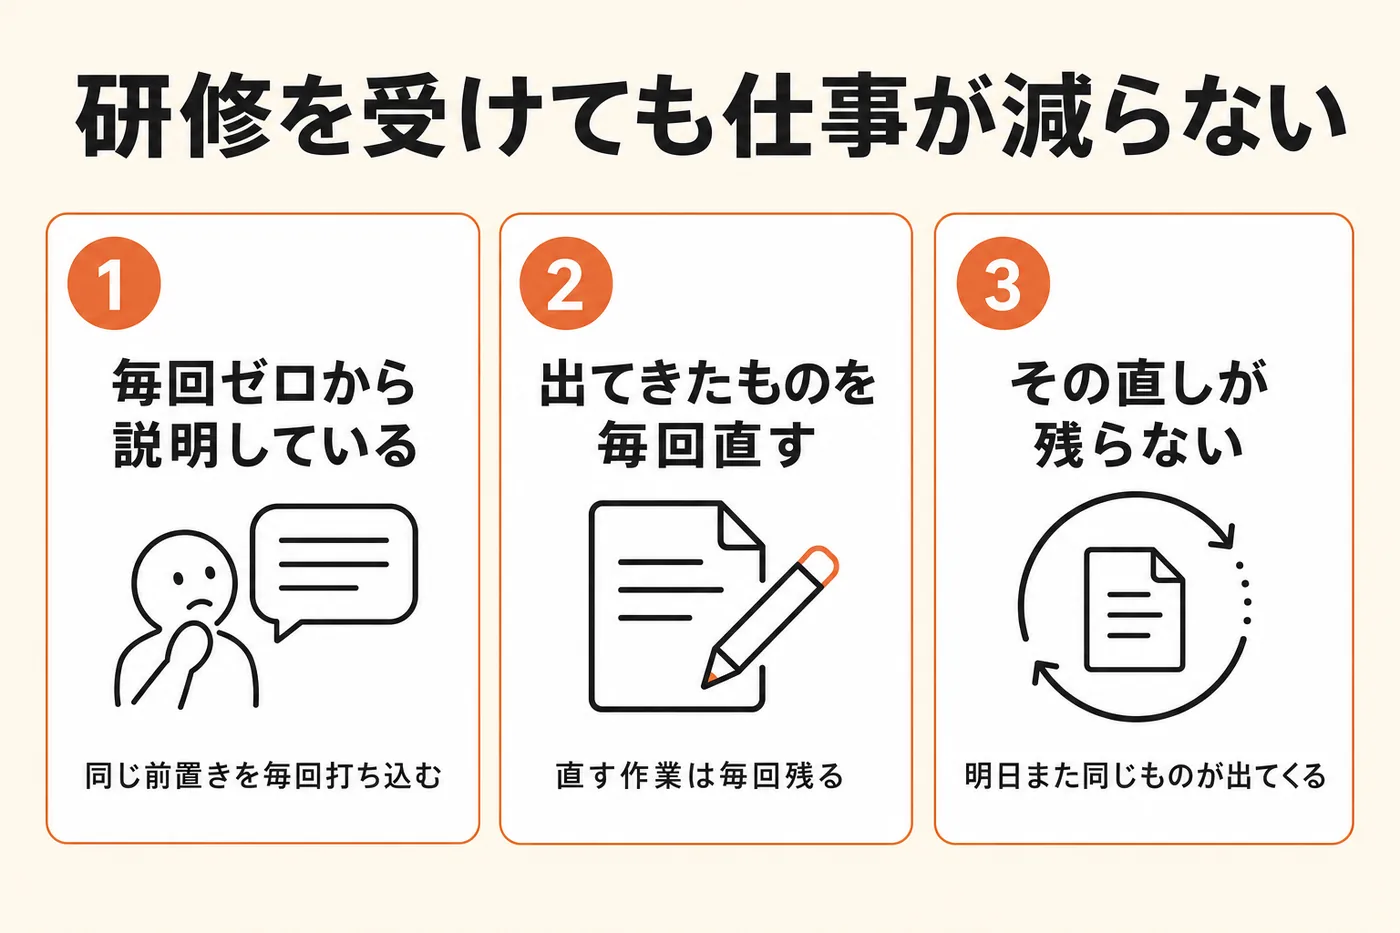
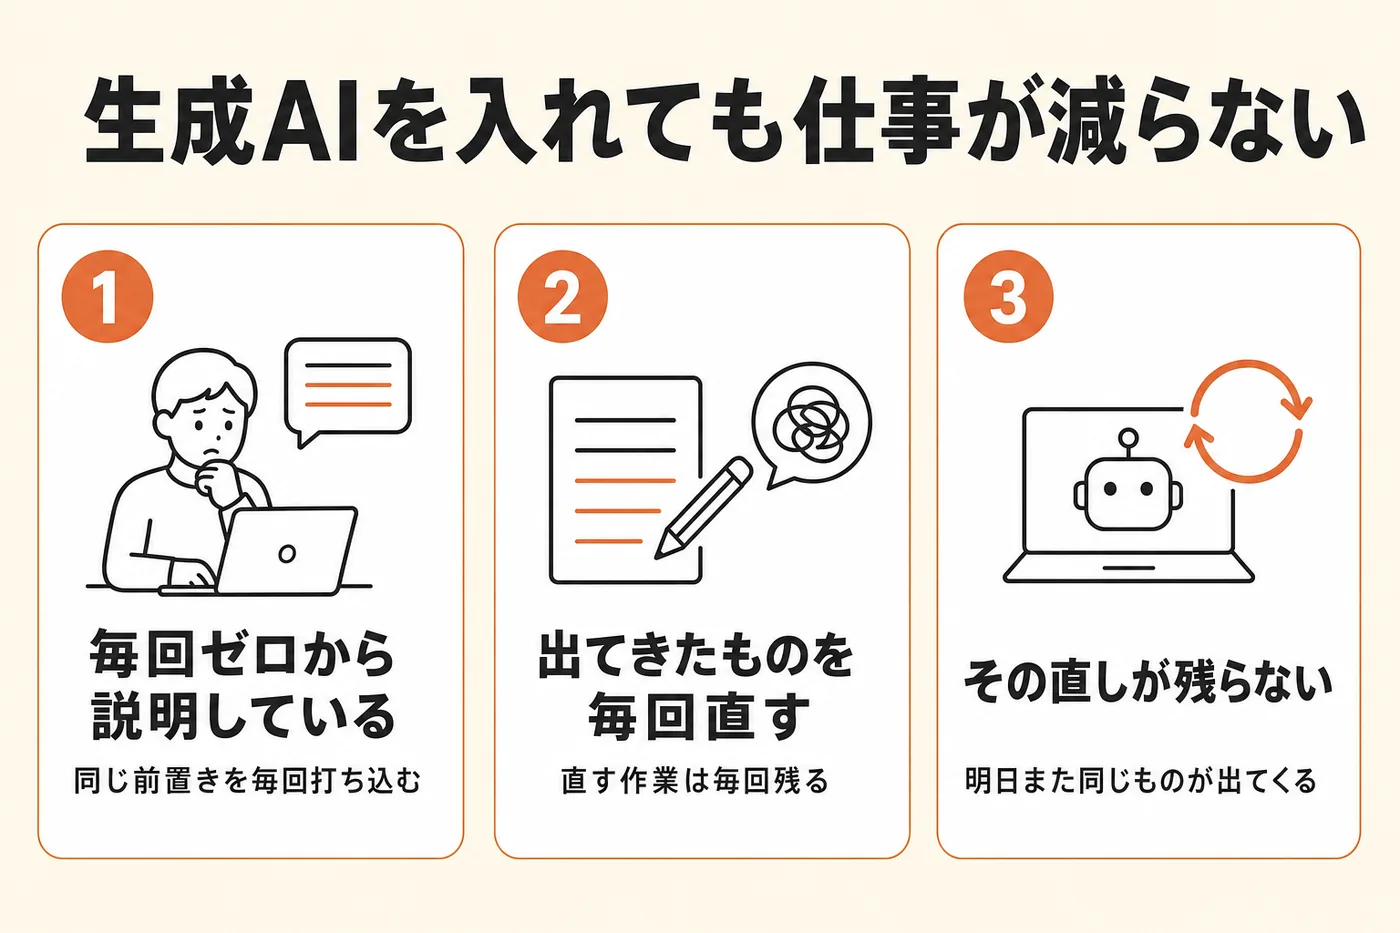
ブログ: 冒頭を「生成AIを入れても仕事が減らない」に変更し、AIエージェント解説を追加
- 研修の効果を否定しない書き出しへ: ChatGPT/Geminiを入れた時点で前進、次の段階は会社側の準備で決まる
- 「さらに効率を上げるならAIエージェント（AI社員）」節を新設し、どんなツールかを説明
- チャットAIとAIエージェントの比較図解を追加（代表例・やること・人の役割）
- 症状の図解を新しい見出しで作り直し、図解は計8枚に

Changed region(s): [[0.0307, 0.2176, 0.9829, 0.9325], [0.0307, 0.0622, 0.9829, 0.1865], [0.3686, 0.9014, 0.645, 0.9325]]

diff --git a/src/content/blog/kumamoto-ai-shain.md b/src/content/blog/kumamoto-ai-shain.md
@@ -1,18 +1,20 @@
 ---
 title: "熊本の会社にAI社員が向いている3つの理由｜属人化は資産に変わる"
-description: "AI研修を受けたのに仕事が減らないのは、指示の書き方が下手だからではありません。AIを道具から担当者に変える鍵は会社側の資料室にあります。TSMC進出で激しくなった人材の奪い合い、まだ3割台のAI活用率、社内に濃く残る属人ノウハウ——熊本の中小企業がいまAI社員に取り組むべき3つの理由を、図解つきで解説します。"
+description: "ChatGPTやGeminiを社内に入れたのに仕事量が変わらないのは、指示の書き方が下手だからではありません。AIを道具から担当者に変える鍵は会社側の資料室にあります。TSMC進出で激しくなった人材の奪い合い、まだ3割台のAI活用率、社内に濃く残る属人ノウハウ——熊本の中小企業がいまAI社員に取り組むべき3つの理由を、図解つきで解説します。"
 pubDate: 2026-07-26T09:00:00
 tag: "AIエージェント"
 thumb: "/thumbs/kumamoto-ai-shain.webp"
 ---
 
-生成AIの研修を受けて、社員がChatGPTを触れるようになった。それなのに、会社の仕事量は去年とほとんど変わっていない。熊本の経営者の方とお話ししていて、いま一番多く出てくるのがこの話です。
+ChatGPTやGeminiを社内に入れて、社員が日常的に触れるようになった。それなのに、会社全体の仕事量は去年とほとんど変わっていない。熊本の経営者の方とお話ししていて、いま一番多く出てくるのがこの話です。
 
-先に言っておくと、それは研修が無駄だったという意味ではありません。全社員がAIを触れる状態まで来ているなら、その時点で十分に前進しています。つまずいているのは次の段階で、そこは研修の内容ではなく、会社側の作りで決まります。
+先に言っておくと、これは導入が失敗だったという意味ではありません。社員がAIを使える状態まで来ているなら、その時点で十分に前進しています。文章の下書き、調べ物、要約にかかる時間は、確実に短くなっているはずです。
+
+つまずくのは、その次の段階です。ここから先は、社員の指示の出し方がうまくなるかどうかではなく、会社側にどんな準備を用意するかで決まります。
 
 そして、その次の段階は、熊本の会社の方がむしろ有利です。理由まで含めて順番に書きます。
 
-## 研修を受けても仕事が減らない、3つの症状
+## 生成AIを使い始めても、仕事の量が変わらない
 
 まず症状の確認からです。次の3つに心当たりがあるなら、原因は指示文の書き方ではありません。
 
@@ -22,7 +24,7 @@ thumb: "/thumbs/kumamoto-ai-shain.webp"
 
 三つ目、その直しがどこにも残らない。今日「この言い回しは使わないで」と伝えても、明日また同じものが出てきます。
 
-![研修を受けても仕事が減らない3つの症状。毎回ゼロから説明している、出てきたものを毎回手で直す、その直しがどこにも残らない](/blog/kumamoto-ai-shain/diagram-1-shoujou.webp)
+![生成AIを使い始めても仕事が減らない3つの症状。毎回ゼロから説明している、出てきたものを毎回手で直す、その直しがどこにも残らない](/blog/kumamoto-ai-shain/diagram-1-shoujou.webp)
 
 正直なところ、AIが出したものを毎回手で直し続けているなら、それは手作業が形を変えただけかなと思います。ここを超えないと、AIは便利な下書き機のまま止まります。
 
@@ -38,7 +40,21 @@ thumb: "/thumbs/kumamoto-ai-shain.webp"
 
 ![道具として使うか、担当者として置くか。道具は指示した分だけ動き手を離すと止まる。担当者は会社の資料を読んで最後まで進め、人は確認だけを担う](/blog/kumamoto-ai-shain/diagram-2-dougu-tantousha.webp)
 
-## AI社員とは「会社の資料室を読んで、最後まで仕上げる担当者」
+## さらに効率を上げるなら、AIエージェント（AI社員）
+
+その「担当者」にあたるのが、AIエージェントと呼ばれるものです。弊社では分かりやすく、AI社員と呼んでいます。
+
+ChatGPTやGemini、Claudeは、聞くと答えるチャットAIです。人が指示を打ち、返ってきた下書きを人が仕上げます。さきほどの「道具」にあたるのがこちらです。
+
+AIエージェントは、ここが違います。手順と判断の基準を読んで、成果物の形まで自分で進めます。人がやるのは、任せる範囲を決めることと、外へ出す前の確認です。代表的なものにClaude CodeやCodexがあります。名前のとおり、もともとは開発者向けに出てきたものですが、やっているのは「手順どおりに作業を進めて仕上げる」ことなので、資料作成や事務作業にもそのまま使えます。
+
+![チャットAIとAIエージェントの違い。ChatGPTやGeminiは聞くと答え人が仕上げる。Claude CodeやCodexなどのAIエージェントは手順と判断の基準を読んで成果物まで仕上げ、人は確認だけ](/blog/kumamoto-ai-shain/diagram-8-agent.webp)
+
+特別な機械は要りません。パソコンやクラウドの上で動くソフトで、Google Workspaceなど、いま使っている環境とつなぎます。時間が来たら自分で動くように決めておくこともできます。弊社では、朝7時30分に承認待ちの報告、会議のあとに次アクションの整理、深夜に日報の作成、といった形で動かしています。
+
+ここまでが「どんな道具か」の話です。ただ、この道具を入れただけでは、まだAI社員にはなりません。会社側に用意するものがあります。
+
+## AI社員を成立させるのは、会社側の資料室
 
 ここが今日の中心です。
 
